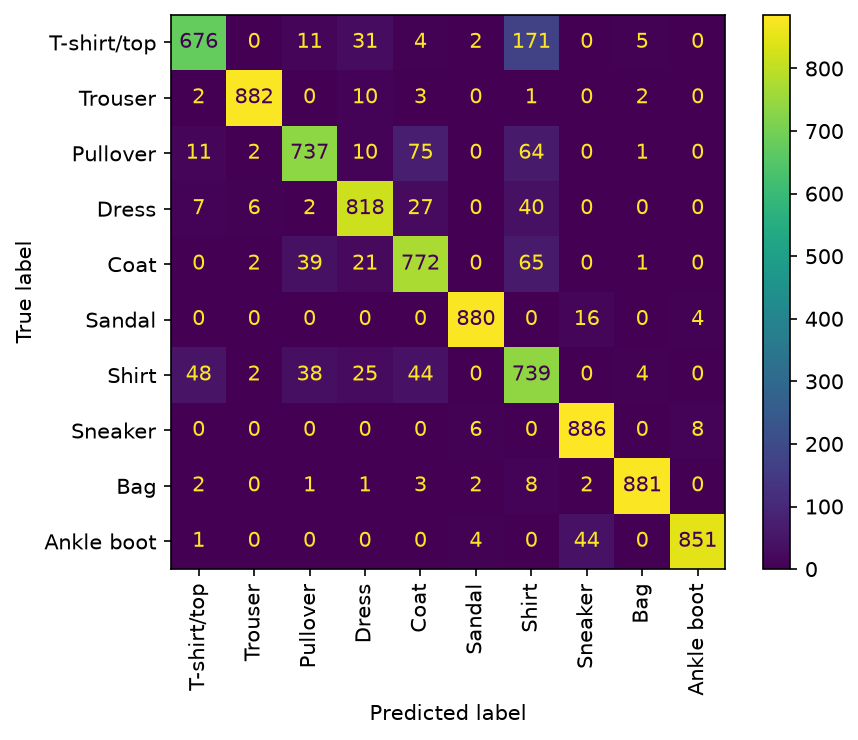
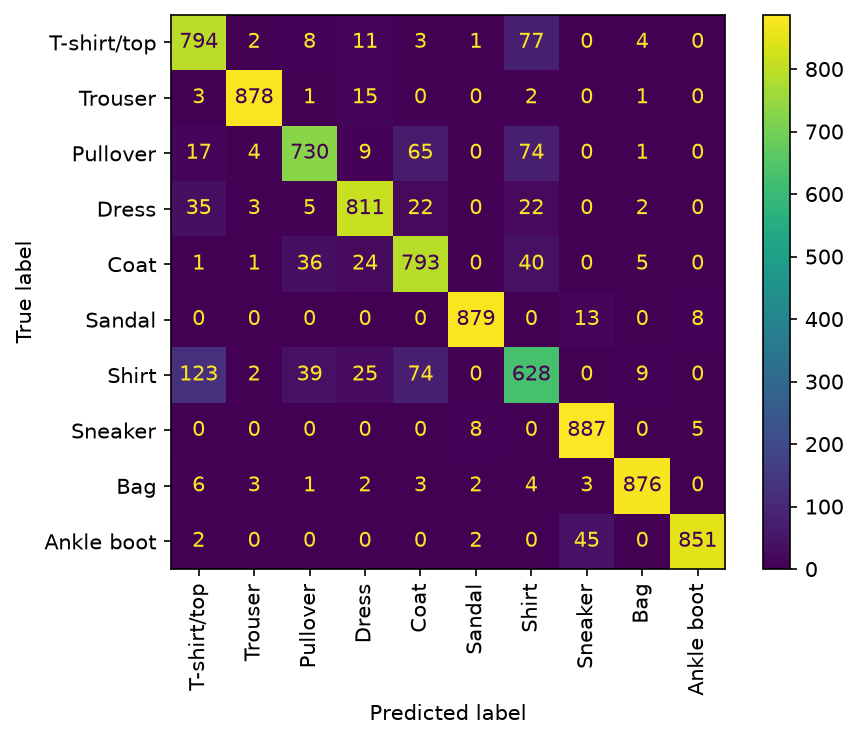
add day8

diff --git a/day8(torch14, 15.py는 class로 model제작)/torch14.py b/day8(torch14, 15.py는 class로 model제작)/torch14.py
@@ -1,0 +1,51 @@
+import numpy as np
+import pandas as pd
+import time
+import matplotlib.pyplot as plt
+import seaborn as sns
+
+from sklearn.model_selection import train_test_split
+from sklearn.metrics import *
+from sklearn.preprocessing import RobustScaler, StandardScaler, MinMaxScaler
+
+import torch
+from torch import tensor
+from torch.nn import Module, Sequential, Dropout, Linear, Conv2d, MaxPool2d, ReLU, Flatten, BCELoss, BatchNorm2d, CrossEntropyLoss
+from torch.nn.functional import softmax
+from torch.optim import Adam
+from torch.utils.data import TensorDataset , DataLoader
+from torchsummary import summary 
+from torch.cuda import is_available
+from torchvision import datasets, transforms
+from torchvision.transforms import ToTensor
+
+# 2 모델 생성
+# 클래스 방식으로는 다음과 같이 작성하며 보통 클래스 방식으로 많이들 작성한다.
+class CustomCNN(Module): #모든 모델은 Module을 상속받는다. PyTorch 신경망의 기본 클래스가 Module이기 때문이다.
+    def __init__(self, n_node): # kwargs: Keyword Arguments: 키=value 형태로 함수에 전달하는 인자. 이렇게 쓰려면 {}(딕셔너리) 내부에 넣어야 하고 {}안에 들어있는 것 넣으려면 ** 필요함.
+        super(CustomCNN, self).__init__() # 기준 클래스, 그에 대한 객체(this임)순서. # 부모인 Module의 "초기화 메서드 호출함"으로써 계속 다른 형태로 제작이 가능하다.
+                                          # 바어있어도 된다. super().__init__ 처럼 비워도 된다.
+        
+        #Conv층
+        self.conv = Conv2d(in_channels=1, out_channels=8, kernel_size=3, stride=1, padding="same") #컬러면 in_channels = 3일것이다.
+        self.relu1 = ReLU()
+        self.pool = MaxPool2d(kernel_size=2)
+        
+        # 판단 종합층
+        self.flatten = Flatten()
+        self.linear1 = Linear(in_features=8 * 14 * 14, out_features=32) # 처음 원본 이미지의 크기가 28 * 28이라고 가정했을 때의 예시이다. 
+        self.relu2 = ReLU()
+        
+        # 판단층
+        self.linear2 = Linear(in_features=32, out_features=10)
+    
+    # 순전파 - FeedForward 라서 이름이 forward임. 그래서 model을 호출하면 pytorch는 알아서 forword를 찾는 기능이 내장되어 있다. 
+    # forward라는 메서드가 실제로 존재해서 오버라이딩 하는 것이다.  
+    def forward(self, x):
+        # 모델 설계
+        x = self.conv1(x)
+        x = self.relu(x)
+        x = self.pool(x)
+        x = self.flatten(x)
+        x = self.fc1(x)
+        return x

diff --git a/day6 (torch11은 CNN-잘보기)/torch11.py b/day6 (torch11은 CNN-잘보기)/torch11.py
@@ -128,7 +128,7 @@ print(x_val.shape, x_test.shape) # torch.Size([5000, 1, 28, 28]) torch.Size([500
 # 핵심은 컨볼루션층 (Conv2d, Activation_fn, Pooling) 통과할 때마다, padding을 걸지 않으면, 절반으로 노드 수가 줄어든다는  것이다.
 train_dataloader = DataLoader(train_dataset, batch_size = 64)
 model = nn.Sequential(
-    nn.Conv2d(1, 8, kernel_size=3, stride=1, padding="same"),  # input = 1*28*28, output = 8*28*28
+    nn.Conv2d(in_channels=1, out_channels=8, kernel_size=3, stride=1, padding="same"),  # input = 1*28*28, output = 8*28*28
     nn.ReLU(),
     # Conv와 ReLU를 거친 데이터는 다음 형태이다. (배치, out_channels, 높이, 너비) 배치가 현재 32이므로 (32,8,28,28)이다.
     # 정규화한 결과의 크기와 위치를 조절하는 학습 파라미터 γ, β도 "채널마다" 하나씩 갖는다. 

diff --git a/day7(torch13.py잘보기)/torch13.py b/day7(torch13.py잘보기)/torch13.py
@@ -118,7 +118,7 @@ x_train, x_val, y_train, y_val = train_test_split(train_data, train_labels, trai
 _, x_test, _, y_test = train_test_split(test_data, test_labels, test_size = 9000, random_state = 10, stratify = test_labels)
 
 print(x_train.shape, y_train.shape) #(20000,) --> 벡터임 답지라는 뜻.
-
+print("y_test 타입:", type(y_test))
 # 1-4 스케일링
 
 # 2 모델 구성
@@ -150,7 +150,7 @@ model = Sequential(
     
     # 판단
     Flatten(),
-    Linear(in_features=3*3*32, out_features= 128),
+    Linear(in_features=3*3*32, out_features= 128), #마지막 계산 잘해야 한다. 행/열크기가 28이었지만 14 -> 7 -> 3 이 된다. 
     ReLU(),
     
     Linear(in_features=128, out_features=64),
